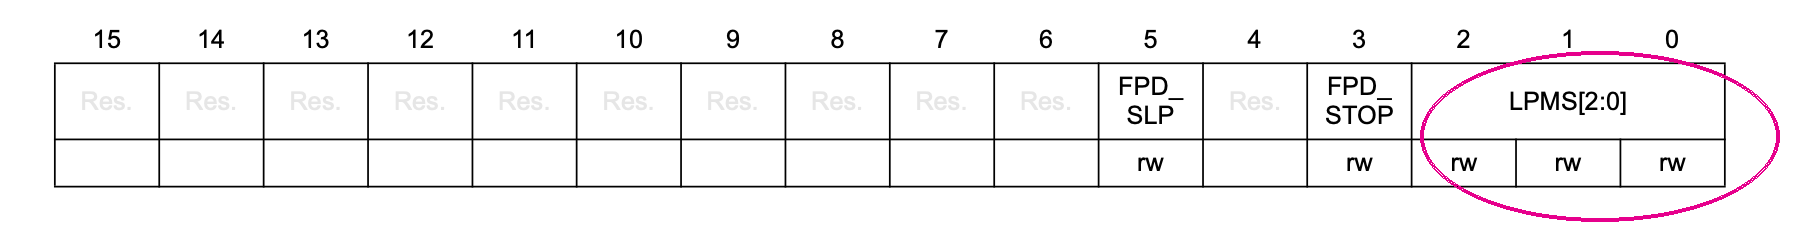
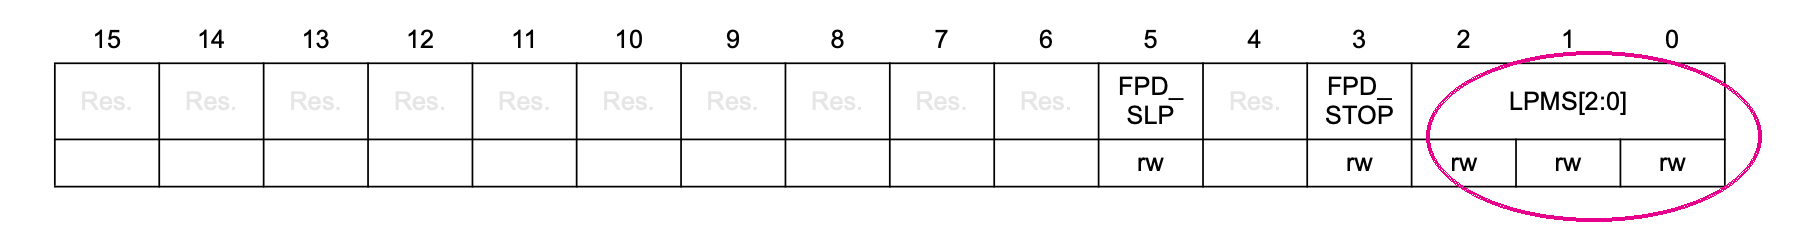
Petra's 10 Day 17x comments, round two (every circle located; archived)
The Sleep wake cell restructured without periods (all-lowercase,
semicolons, her question answered by the structure). 'the one we use'
deleted from the entry-instructions caption (her correction of her own
first circle: the parenthetical stays). The entering-modes slide gains
the book's opening line as its introduction (to put the processor into
a low-power mode, you set two fields and execute one instruction) and
its caption now says where SLEEPDEEP is set; the LPMS circle nudged
left off the table edge. The register slide shows both registers she
asked for: PWR_CR1 with LPMS circled and SCB->SCR with SLEEPDEEP
circled (fig-scr-circled.png, her slide 12's diagram in her circling
style). Her pet-once suggestion adopted: IWDG->KR = KEY_UPDATE after
KEY_START in the book listing and the config code screen, so the first
countdown also runs from IWDG_RLR - and, as she said, the stretch
introduction drops its first-pet sentence (only the reflash escape
remains); the instructor note updated to match. The prescaler bullet
and the book paragraph note that only certain divider values are
allowed, listed in the Reference Manual's IWDG_PR description.

Fit sweep clean at 1600x900 after the sidebyside rebalance; the
two-register slide looked at. The Canvas watchdog.c needs the same two
added lines.

diff --git a/assets/book.css b/assets/book.css
@@ -370,6 +370,7 @@ img[src*="images/Day17-BLE/slide06_img2.png"] { aspect-ratio: 620 / 620; }
 img[src*="images/Day17x-Sleep_Modes/fig-clock-tree-annotated.svg"] { aspect-ratio: 878 / 795; }
 img[src*="images/Day17x-Sleep_Modes/fig-power-entry-trim.png"] { aspect-ratio: 940 / 1126; }
 img[src*="images/Day17x-Sleep_Modes/fig-pwr-cr1-circled.png"] { aspect-ratio: 1796 / 248; }
+img[src*="images/Day17x-Sleep_Modes/fig-scr-circled.png"] { aspect-ratio: 720 / 238; }
 img[src*="images/Day17x-Sleep_Modes/fig-watchdog-dog.png"] { aspect-ratio: 701 / 537; }
 img[src*="images/Day17x-Sleep_Modes/slide06_img1.png"] { aspect-ratio: 1438 / 900; }
 img[src*="images/Day17x-Sleep_Modes/slide08_img1.png"] { aspect-ratio: 1004 / 497; }
